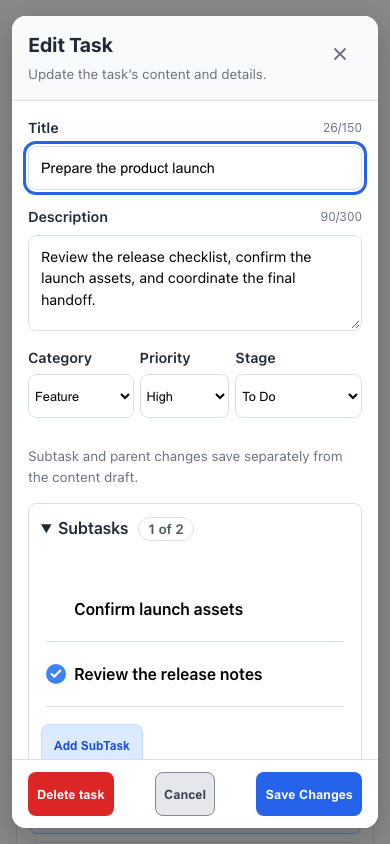
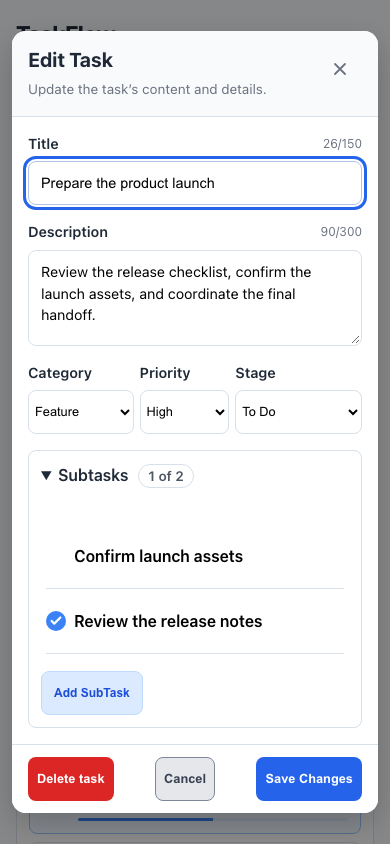
polish: unify collapsible subtask sections and actions

diff --git a/src/components/TaskDetails/TaskDetails.tsx b/src/components/TaskDetails/TaskDetails.tsx
@@ -42,11 +42,17 @@ export default function TaskDetails(props: TaskFormProps & { task: Task; onChang
             </dl>
             {props.orderingActions && <section className="detail-order-actions" aria-label="Task order">{props.orderingActions(task)}</section>}
             <section aria-labelledby={`${id}-description`}><h3 id={`${id}-description`}>Description</h3><p className="task-details-description">{task.description}</p></section>
-            {!parent && <section aria-labelledby={`${id}-relationships`}>
-              <h3 id={`${id}-relationships`}>Related work</h3>
-              {!parent && <p className="task-details-muted">{task.parentId ? "Parent unavailable" : "Independent task"}</p>}
-              {children.length > 0 && <><p>{progress.completed} of {progress.total} subtasks complete</p><progress aria-label={`Subtask completion for ${task.title}`} value={progress.completed} max={progress.total}/><ul className="task-details-children">{children.map(child => <li key={child.id}>{child.status === "done" ? <CompletionMark complete/> : <span className="completion-placeholder" aria-hidden="true"/>}<button className="relationship-link" aria-label={`Open subtask ${child.title}`} onClick={() => onOpenTask(child)}>{child.title}</button><span>{stages[child.status]}</span></li>)}</ul></>}
-              {!task.parentId && task.status !== "done" && <Button id={`${id}-child`} variant="secondary" aria-label={`Add SubTask to ${task.title}`} onClick={() => setView("child")}>Add SubTask</Button>}
+            {!parent && <section aria-label="Related work">
+              {task.parentId && <p className="task-details-muted">Parent unavailable</p>}
+              {children.length > 0 ? <div className="task-editor-subtasks">
+                <details open>
+                  <summary><span>Subtasks</span><span className="subtask-progress">{progress.completed} of {progress.total}</span></summary>
+                  <p>{progress.completed} of {progress.total} subtasks complete</p>
+                  <progress aria-label={`Subtask completion for ${task.title}`} value={progress.completed} max={progress.total}/>
+                  <ul className="task-details-children">{children.map(child => <li key={child.id}>{child.status === "done" ? <CompletionMark complete/> : <span className="completion-placeholder" aria-hidden="true"/>}<button className="relationship-link" aria-label={`Open subtask ${child.title}`} onClick={() => onOpenTask(child)}>{child.title}</button><span>{stages[child.status]}</span></li>)}</ul>
+                  {!task.parentId && task.status !== "done" && <button type="button" id={`${id}-child`} className="edit-task-button add-editor-subtask" aria-label={`Add SubTask to ${task.title}`} onClick={() => setView("child")}>Add SubTask</button>}
+                </details>
+              </div> : !task.parentId && task.status !== "done" && <button type="button" id={`${id}-child`} className="edit-task-button add-editor-subtask" aria-label={`Add SubTask to ${task.title}`} onClick={() => setView("child")}>Add SubTask</button>}
               {task.status === "done" && !task.parentId && <p className="task-details-muted">Completed tasks cannot accept new subtasks.</p>}
             </section>}
             {task.subtasks.length > 0 && <section aria-label="Legacy checklist"><h3>Legacy checklist</h3><SubtaskList task={task} dispatch={dispatch} allowCreate={task.status !== "done"}/></section>}

diff --git a/src/components/TaskForm/TaskForm.css b/src/components/TaskForm/TaskForm.css
@@ -165,7 +165,6 @@
 .task-status-pill.stage-in-progress { background: var(--color-stage-in-progress-surface); border-color: var(--color-stage-in-progress-text); color: var(--color-stage-in-progress-text); }
 .task-status-pill.stage-in-review { background: var(--color-stage-in-review-surface); border-color: var(--color-stage-in-review-text); color: var(--color-stage-in-review-text); }
 .task-status-pill.stage-done { background: var(--color-stage-done-surface); border-color: var(--color-stage-done-border); color: var(--color-stage-done-text); }
-.task-form-relationship-note { color: var(--color-text-muted); font-size: var(--font-size-support); line-height: 1.5; margin: var(--space-3) 0 0; }
 
 /* Compact composer with a fixed action frame and a separately scrolling draft. */
 .task-editor-dialog form { width: 520px; padding: 0; gap: 0; overflow: hidden; border-radius: 14px; }

diff --git a/src/components/TaskForm/TaskForm.tsx b/src/components/TaskForm/TaskForm.tsx
@@ -319,7 +319,6 @@ export default function TaskForm({
 
           </div>
 
-          {currentTask && <p className="task-form-relationship-note">Subtask and parent changes save separately from the content draft.</p>}
           {currentTask && !isSubtask && children.length > 0 && (
             <section className="task-editor-subtasks" aria-label="Subtasks">
               <details open>

diff --git a/docs/v2-task-details.md b/docs/v2-task-details.md
@@ -63,3 +63,9 @@ When an edited task can both create a child and manage its parent, Add SubTask a
 Owner review settled on Category → Priority → Stage for task details and editing (creation uses Category → Priority). Linked tasks show Parent immediately above that row as a matching labeled field, using the same navigation control in details and editing. The parent title no longer crowds the heading. A separate parent row preserves room for long titles and keeps mobile metadata readable instead of squeezing four fields together. Stage remains read-only in details and editable only in the editor; all previous action eligibility and draft/movement rules are retained.
 
 Metadata-order verification: 30 affected component tests and 12 desktop/mobile detail browser journeys passed. Four long-content/row-layout checks were repeated after the final mobile three-column adjustment. Lint, strict TypeScript, build and diff checks passed. Synthetic preview checks also retained aligned related-work buttons and working actions at 1440, 390 and 320px. Screenshots were refreshed from the final build.
+
+## Matching subtask sections
+
+Task details now use the editor’s bordered, collapsible Subtasks section and the same subtle blue Add SubTask button. Both lists start expanded and retain completed-only checkmarks and plain child titles with hover/focus links. The “Independent task” label and content-draft explanation are removed; draft and relationship behavior is unchanged.
+
+Verification: 30 affected component tests passed, along with lint, strict TypeScript and the production build. All 12 existing desktop/mobile details browser journeys passed. Production Chromium checks at 1440, 390 and 320px verified mouse collapse, keyboard expansion, identical Add SubTask colors/padding/touch targets in both views and no horizontal overflow. Desktop/mobile screenshots were refreshed.
